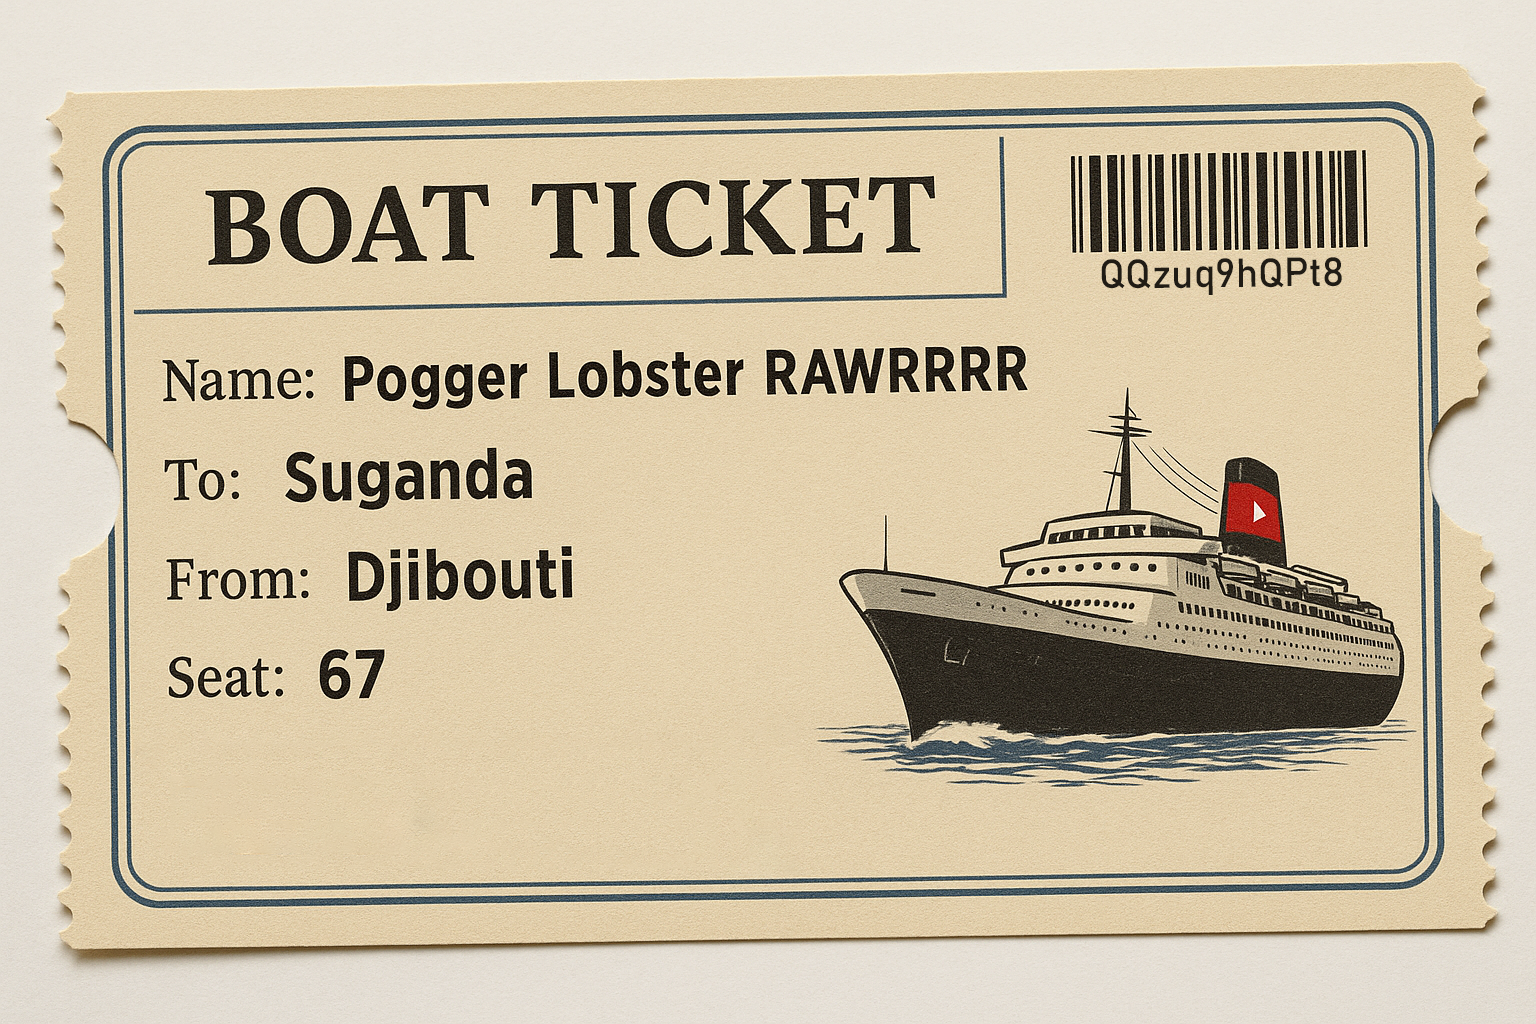
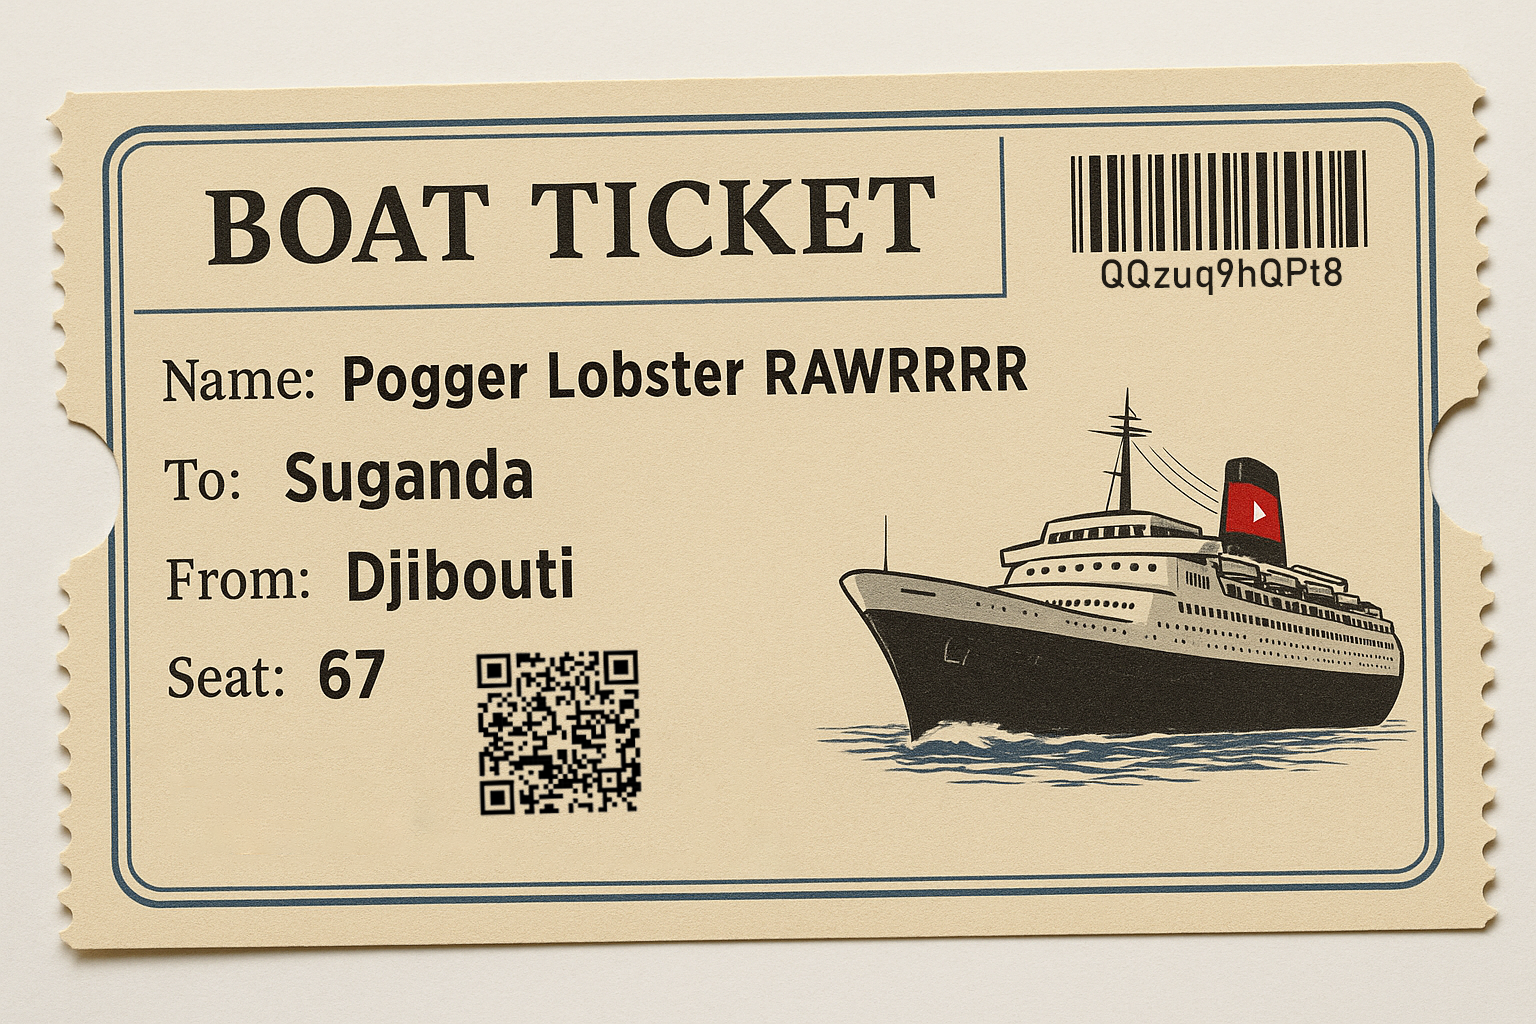
Edited puzzle 6 ticket image, set up puzzle 7 - I like the way you think

Changed region(s): [[0.3125, 0.625, 0.4375, 0.8125]]

diff --git a/puzzle7.html b/puzzle7.html
@@ -3,7 +3,7 @@
 <head>
     <meta charset="UTF-8">
     <meta name="viewport" content="width=device-width, initial-scale=1.0">
-    <title>Puzzle 7: Mathematical Mystery - Alvin Puzzle Hunt</title>
+    <title>Puzzle 7: Ninja - Alvin Puzzle Hunt</title>
     <link rel="stylesheet" href="styles.css">
     <link rel="stylesheet" href="puzzle-styles.css">
     <style>
@@ -133,88 +133,73 @@
             color: #4facfe;
             font-size: 1.1rem;
         }
+        
+        /* Custom wrong answer message styles */
+        .custom-wrong-message {
+            position: fixed;
+            top: 50%;
+            left: 50%;
+            transform: translate(-50%, -50%);
+            background: rgba(255, 255, 255, 0.95);
+            border: 3px solid #dc3545;
+            border-radius: 20px;
+            padding: 2rem 3rem;
+            font-size: 1.5rem;
+            font-weight: bold;
+            color: #dc3545;
+            z-index: 1000;
+            box-shadow: 0 20px 40px rgba(0, 0, 0, 0.3);
+            animation: fadeInOut 2s ease-in-out forwards;
+        }
+        
+        @keyframes fadeInOut {
+            0% {
+                opacity: 0;
+                transform: translate(-50%, -50%) scale(0.8);
+            }
+            20% {
+                opacity: 1;
+                transform: translate(-50%, -50%) scale(1);
+            }
+            80% {
+                opacity: 1;
+                transform: translate(-50%, -50%) scale(1);
+            }
+            100% {
+                opacity: 0;
+                transform: translate(-50%, -50%) scale(0.8);
+            }
+        }
     </style>
 </head>
 <body class="puzzle7-theme">
     <div class="container">
         <header class="puzzle-header">
             <button class="back-btn" onclick="goBack()">← Back to Puzzles</button>
-            <h1>Puzzle <span id="puzzle-number">7</span>: Mathematical Mystery</h1>
+            <h1>Puzzle <span id="puzzle-number">7</span>: Ninja</h1>
         </header>
 
         <main class="puzzle-main">
             <div class="puzzle-content">
                 <div class="puzzle-description">
-                    <h2>🔢 Prime Number Challenge</h2>
-                    <p>Find the sum of all prime numbers between 1 and 20. A prime number is only divisible by 1 and itself!</p>
+                    <h2>🥷 What did ninja Alvin say?</h2>
                 </div>
 
                 <div class="puzzle-area">
                     <div class="math-puzzle">
-                        <h3>🎯 The Challenge</h3>
-                        <p>What is the sum of all prime numbers between 1 and 20?</p>
-                        <div class="result-display" id="final-result">Click numbers to identify primes!</div>
-                    </div>
-
-                    <div class="prime-calculator">
-                        <h4>🔧 Prime Number Identifier</h4>
-                        <p>Click on numbers to identify which ones are prime:</p>
-                        
-                        <div class="number-grid" id="number-grid">
-                            <!-- Numbers 1-20 will be generated by JavaScript -->
-                        </div>
-                        
-                        <div class="calc-buttons">
-                            <button class="calc-btn" onclick="checkAllPrimes()">Check All Primes</button>
-                            <button class="calc-btn" onclick="calculateSum()">Calculate Sum</button>
-                            <button class="calc-btn" onclick="resetNumbers()">Reset</button>
-                            <button class="calc-btn" onclick="showSolution()">Show Solution</button>
-                        </div>
-                    </div>
-
-                    <div class="prime-explanation">
-                        <h4>💡 What is a Prime Number?</h4>
-                        <p>A prime number is a natural number greater than 1 that has no positive divisors other than 1 and itself.</p>
-                        <p><strong>Examples:</strong> 2, 3, 5, 7, 11, 13, 17, 19 are prime numbers.</p>
-                        <p><strong>Non-prime examples:</strong> 4 (divisible by 2), 6 (divisible by 2 and 3), 8 (divisible by 2 and 4), 9 (divisible by 3).</p>
-                    </div>
-
-                    <div class="step-by-step" id="solution-steps" style="display: none;">
-                        <h4>📝 Step-by-Step Solution</h4>
-                        <div class="step">
-                            <div class="step-number">Step 1:</div>
-                            <p>Identify all prime numbers between 1 and 20: 2, 3, 5, 7, 11, 13, 17, 19</p>
-                        </div>
-                        <div class="step">
-                            <div class="step-number">Step 2:</div>
-                            <p>Add them together: 2 + 3 + 5 + 7 + 11 + 13 + 17 + 19</p>
-                        </div>
-                        <div class="step">
-                            <div class="step-number">Step 3:</div>
-                            <p>Calculate: 2 + 3 = 5, 5 + 5 = 10, 10 + 7 = 17, 17 + 11 = 28, 28 + 13 = 41, 41 + 17 = 58, 58 + 19 = 77</p>
-                        </div>
-                        <div class="step">
-                            <div class="step-number">Answer:</div>
-                            <p><strong>77</strong></p>
-                        </div>
-                    </div>
-
-                    <div class="puzzle-box">
-                        <h3>🎯 The Solution</h3>
-                        <p>Prime numbers between 1 and 20: 2, 3, 5, 7, 11, 13, 17, 19</p>
-                        <p>Sum: 2 + 3 + 5 + 7 + 11 + 13 + 17 + 19 = <strong>77</strong></p>
+                        <img src="images/ninja.png" alt="Ninja" style="max-width: 100%; height: auto; border-radius: 15px; box-shadow: 0 10px 30px rgba(0, 0, 0, 0.3);" />
                     </div>
                 </div>
 
                 <div class="puzzle-actions">
-                    <input type="text" id="answer-input" placeholder="Enter the sum of all prime numbers" class="answer-input">
+                    <input type="text" id="answer-input" placeholder="What did ninja Alvin say?" class="answer-input">
                     <button class="submit-btn" onclick="submitAnswer()">Submit Answer</button>
                 </div>
 
                 <div class="puzzle-hints">
                     <button class="hint-btn" onclick="toggleHint()">Show Hint</button>
                     <div id="hint-content" class="hint-content hidden">
-                        <p>Prime numbers are only divisible by 1 and themselves: 2, 3, 5, 7, 11, 13, 17, 19</p>
+                        <p>Look carefully at the ninja image. Sometimes the answer is hidden in plain sight!</p>
                     </div>
                 </div>
             </div>
@@ -227,100 +212,92 @@
 
     <script src="puzzle-script.js"></script>
     <script>
-        let selectedNumbers = [];
-        let primeNumbers = [];
-        
-        function generateNumberGrid() {
-            const container = document.getElementById('number-grid');
-            container.innerHTML = '';
-            
-            for (let i = 1; i <= 20; i++) {
-                const numberBox = document.createElement('div');
-                numberBox.className = 'number-box';
-                numberBox.textContent = i;
-                numberBox.onclick = () => toggleNumber(i, numberBox);
-                container.appendChild(numberBox);
-            }
-        }
-        
-        function isPrime(num) {
-            if (num < 2) return false;
-            for (let i = 2; i <= Math.sqrt(num); i++) {
-                if (num % i === 0) return false;
-            }
-            return true;
-        }
-        
-        function toggleNumber(num, element) {
-            if (selectedNumbers.includes(num)) {
-                selectedNumbers = selectedNumbers.filter(n => n !== num);
-                element.classList.remove('selected');
-            } else {
-                selectedNumbers.push(num);
-                element.classList.add('selected');
-            }
-            updateDisplay();
-        }
-        
-        function checkAllPrimes() {
-            const numberBoxes = document.querySelectorAll('.number-box');
-            numberBoxes.forEach((box, index) => {
-                const num = index + 1;
-                if (isPrime(num)) {
-                    box.classList.add('prime');
-                    if (!primeNumbers.includes(num)) {
-                        primeNumbers.push(num);
-                    }
-                } else {
-                    box.classList.add('composite');
-                }
-            });
-            updateDisplay();
-        }
-        
-        function calculateSum() {
-            const sum = primeNumbers.reduce((acc, num) => acc + num, 0);
-            document.getElementById('final-result').textContent = `Sum of primes: ${sum}`;
-        }
-        
-        function resetNumbers() {
-            selectedNumbers = [];
-            primeNumbers = [];
-            const numberBoxes = document.querySelectorAll('.number-box');
-            numberBoxes.forEach(box => {
-                box.classList.remove('selected', 'prime', 'composite');
-            });
-            document.getElementById('final-result').textContent = 'Click numbers to identify primes!';
-        }
-        
-        function showSolution() {
-            document.getElementById('solution-steps').style.display = 'block';
-            document.getElementById('solution-steps').scrollIntoView({ behavior: 'smooth' });
-        }
-        
-        function updateDisplay() {
-            const result = document.getElementById('final-result');
-            if (primeNumbers.length > 0) {
-                result.textContent = `Prime numbers found: ${primeNumbers.join(', ')}`;
-            } else if (selectedNumbers.length > 0) {
-                result.textContent = `Selected numbers: ${selectedNumbers.join(', ')}`;
-            } else {
-                result.textContent = 'Click numbers to identify primes!';
-            }
-        }
-        
-        // Initialize the puzzle
-        generateNumberGrid();
-        
         function goBack() {
             window.location.href = "index.html";
         }
         
-        // Initialize puzzle timer when page loads
+        // Custom submit answer function that bypasses timer
+        function submitAnswer() {
+            const answer = document.getElementById("answer-input").value.trim();
+            const puzzleNumber = "7";
+
+            if (!answer) {
+                alert("Please enter an answer before submitting!");
+                return;
+            }
+
+            // Get the obfuscated answers (from puzzle-script.js)
+            const obfuscatedData = getObfuscatedAnswers();
+            const puzzleKey = puzzleNumber.toString();
+            const correctHashes = obfuscatedData[puzzleKey] || [];
+
+            // Save the attempted answer
+            saveAttemptedAnswer(puzzleNumber, answer);
+
+            // Hash the user's input and compare against stored hashes
+            const userAnswerHash = md5(answer.toLowerCase().trim());
+            const isCorrect = correctHashes.includes(userAnswerHash);
+
+            // Refresh the attempted answers display
+            displayAttemptedAnswers(puzzleNumber);
+
+            if (isCorrect) {
+                // Mark puzzle as completed
+                markPuzzleCompleted(puzzleNumber);
+                // Show success screen
+                showSuccessScreen(puzzleNumber, answer);
+            } else {
+                // Show custom wrong answer message
+                showCustomWrongMessage();
+            }
+        }
+        
+        // Custom wrong answer message function
+        function showCustomWrongMessage() {
+            // Array of random wrong answer messages
+            const wrongAnswerMessages = [
+                "☝🤓 Erm, actually...",
+                "☝🤓 Well, technically...",
+                "☝🤓 If we're being precise...",
+                "☝🤓 That's not entirely accurate...",
+                "☝🤓 Well, if you look it up on...",
+                "☝🤓 Um, excuse me, but...",
+            ];
+            
+            // Remove any existing message
+            const existingMessage = document.querySelector('.custom-wrong-message');
+            if (existingMessage) {
+                existingMessage.remove();
+            }
+            
+            // Select a random message
+            const randomMessage = wrongAnswerMessages[Math.floor(Math.random() * wrongAnswerMessages.length)];
+            
+            // Create new message
+            const messageDiv = document.createElement('div');
+            messageDiv.className = 'custom-wrong-message';
+            messageDiv.textContent = randomMessage;
+            
+            // Add to page
+            document.body.appendChild(messageDiv);
+            
+            // Remove after 2 seconds
+            setTimeout(() => {
+                if (messageDiv.parentNode) {
+                    messageDiv.remove();
+                }
+            }, 2000);
+        }
+        
+        // Initialize puzzle without timer when page loads
         document.addEventListener('DOMContentLoaded', function() {
             const puzzleNumber = "7";
-            if (!isPuzzleCompleted(puzzleNumber)) {
-                initializePuzzleWithoutTimer(puzzleNumber);
+            // Check if puzzle is already completed
+            if (isPuzzleCompleted(puzzleNumber)) {
+                showCompletionScreen(puzzleNumber);
+            } else {
+                // Just display attempted answers, no timer
+                displayAttemptedAnswers(puzzleNumber);
             }
         });
     </script>
